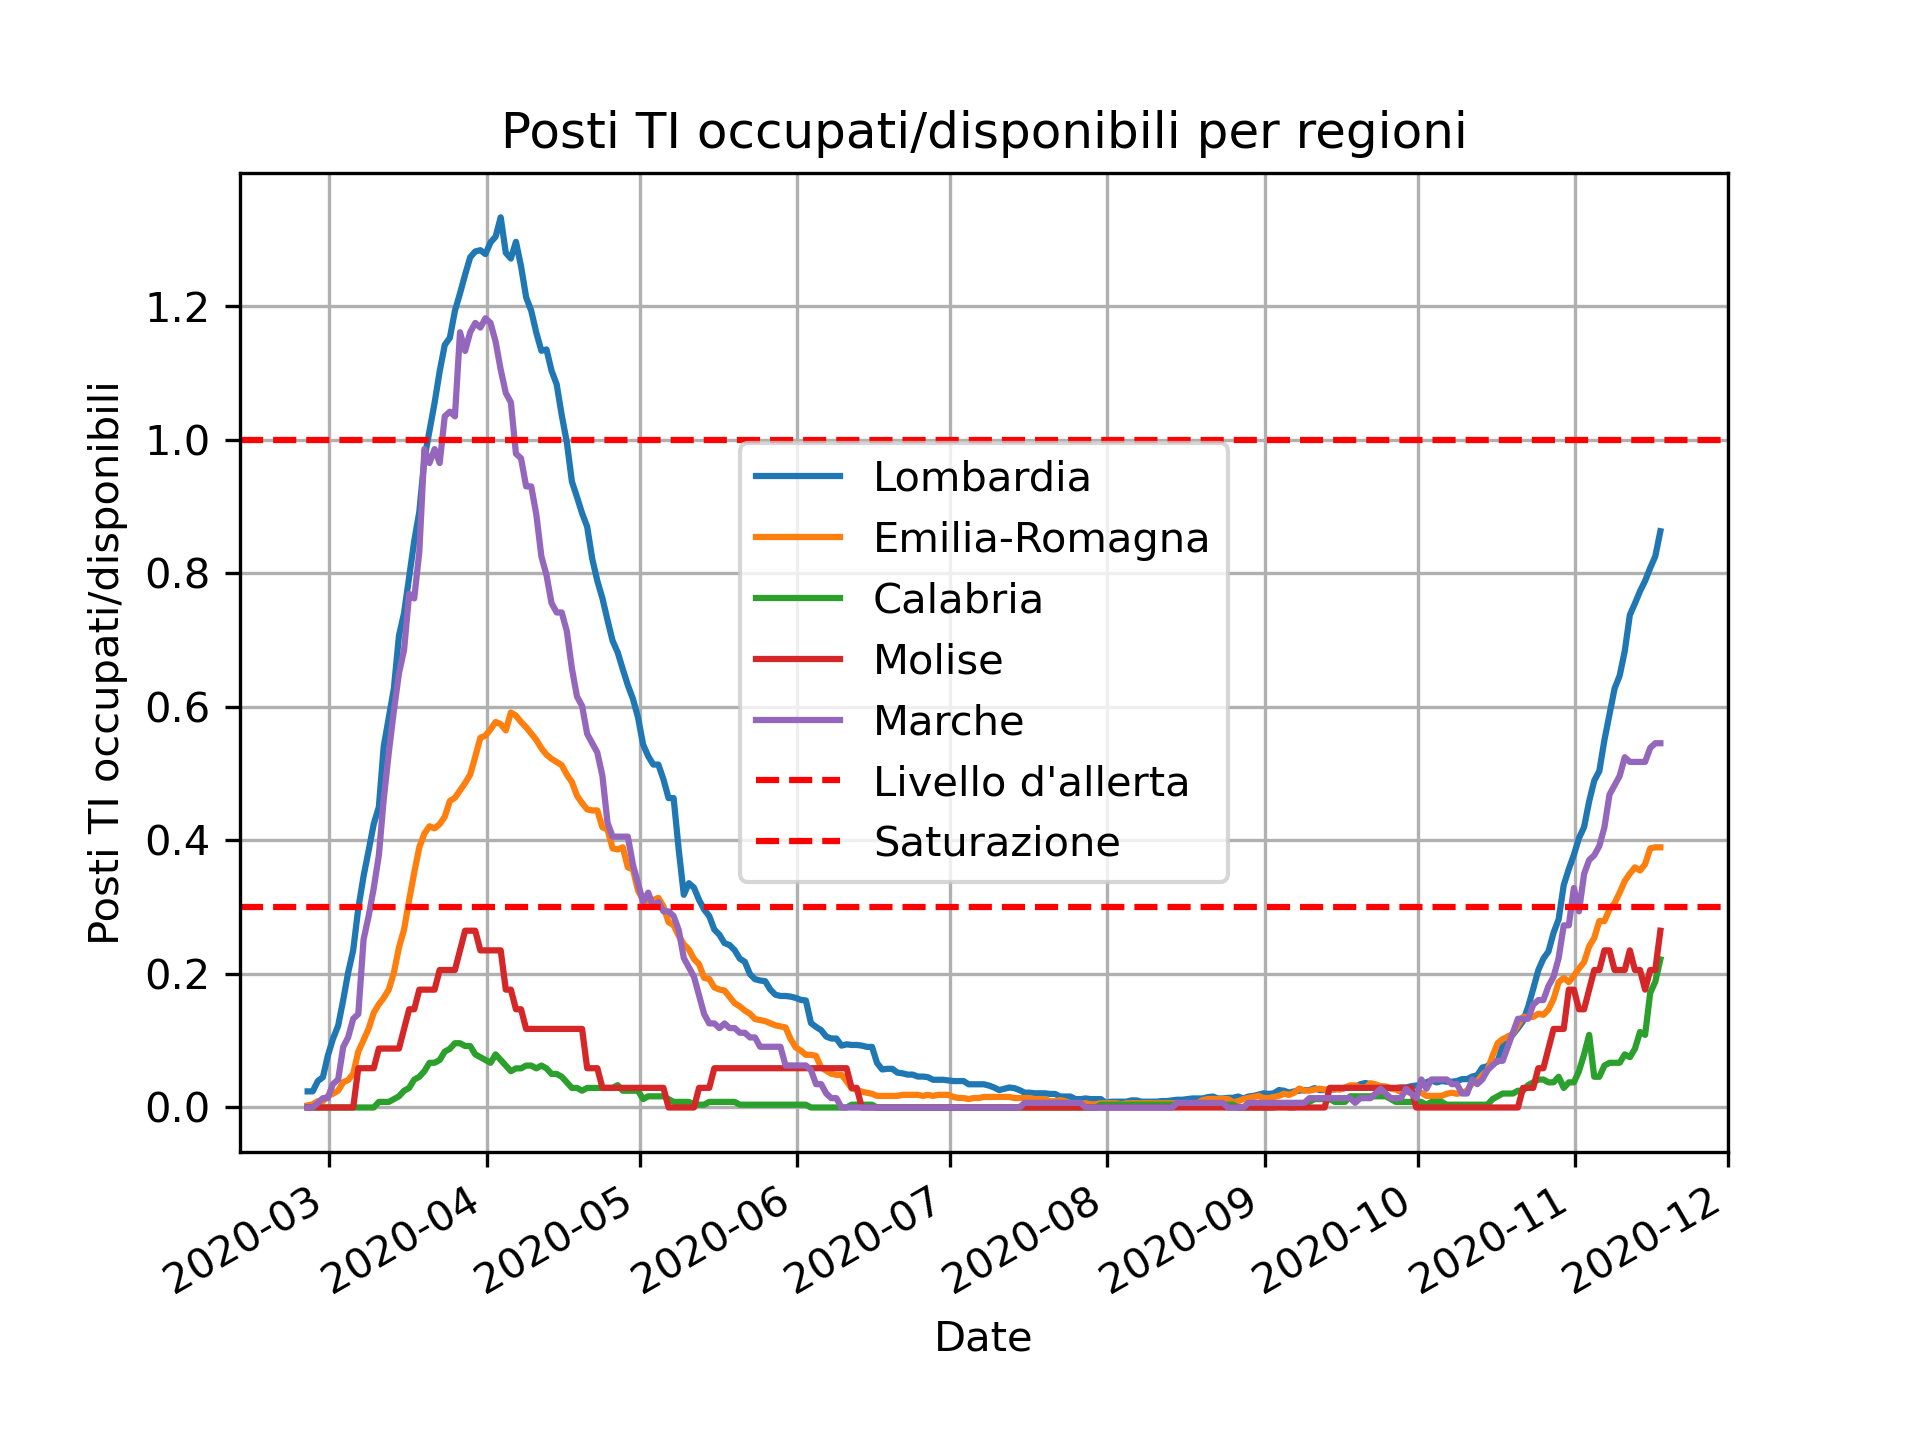
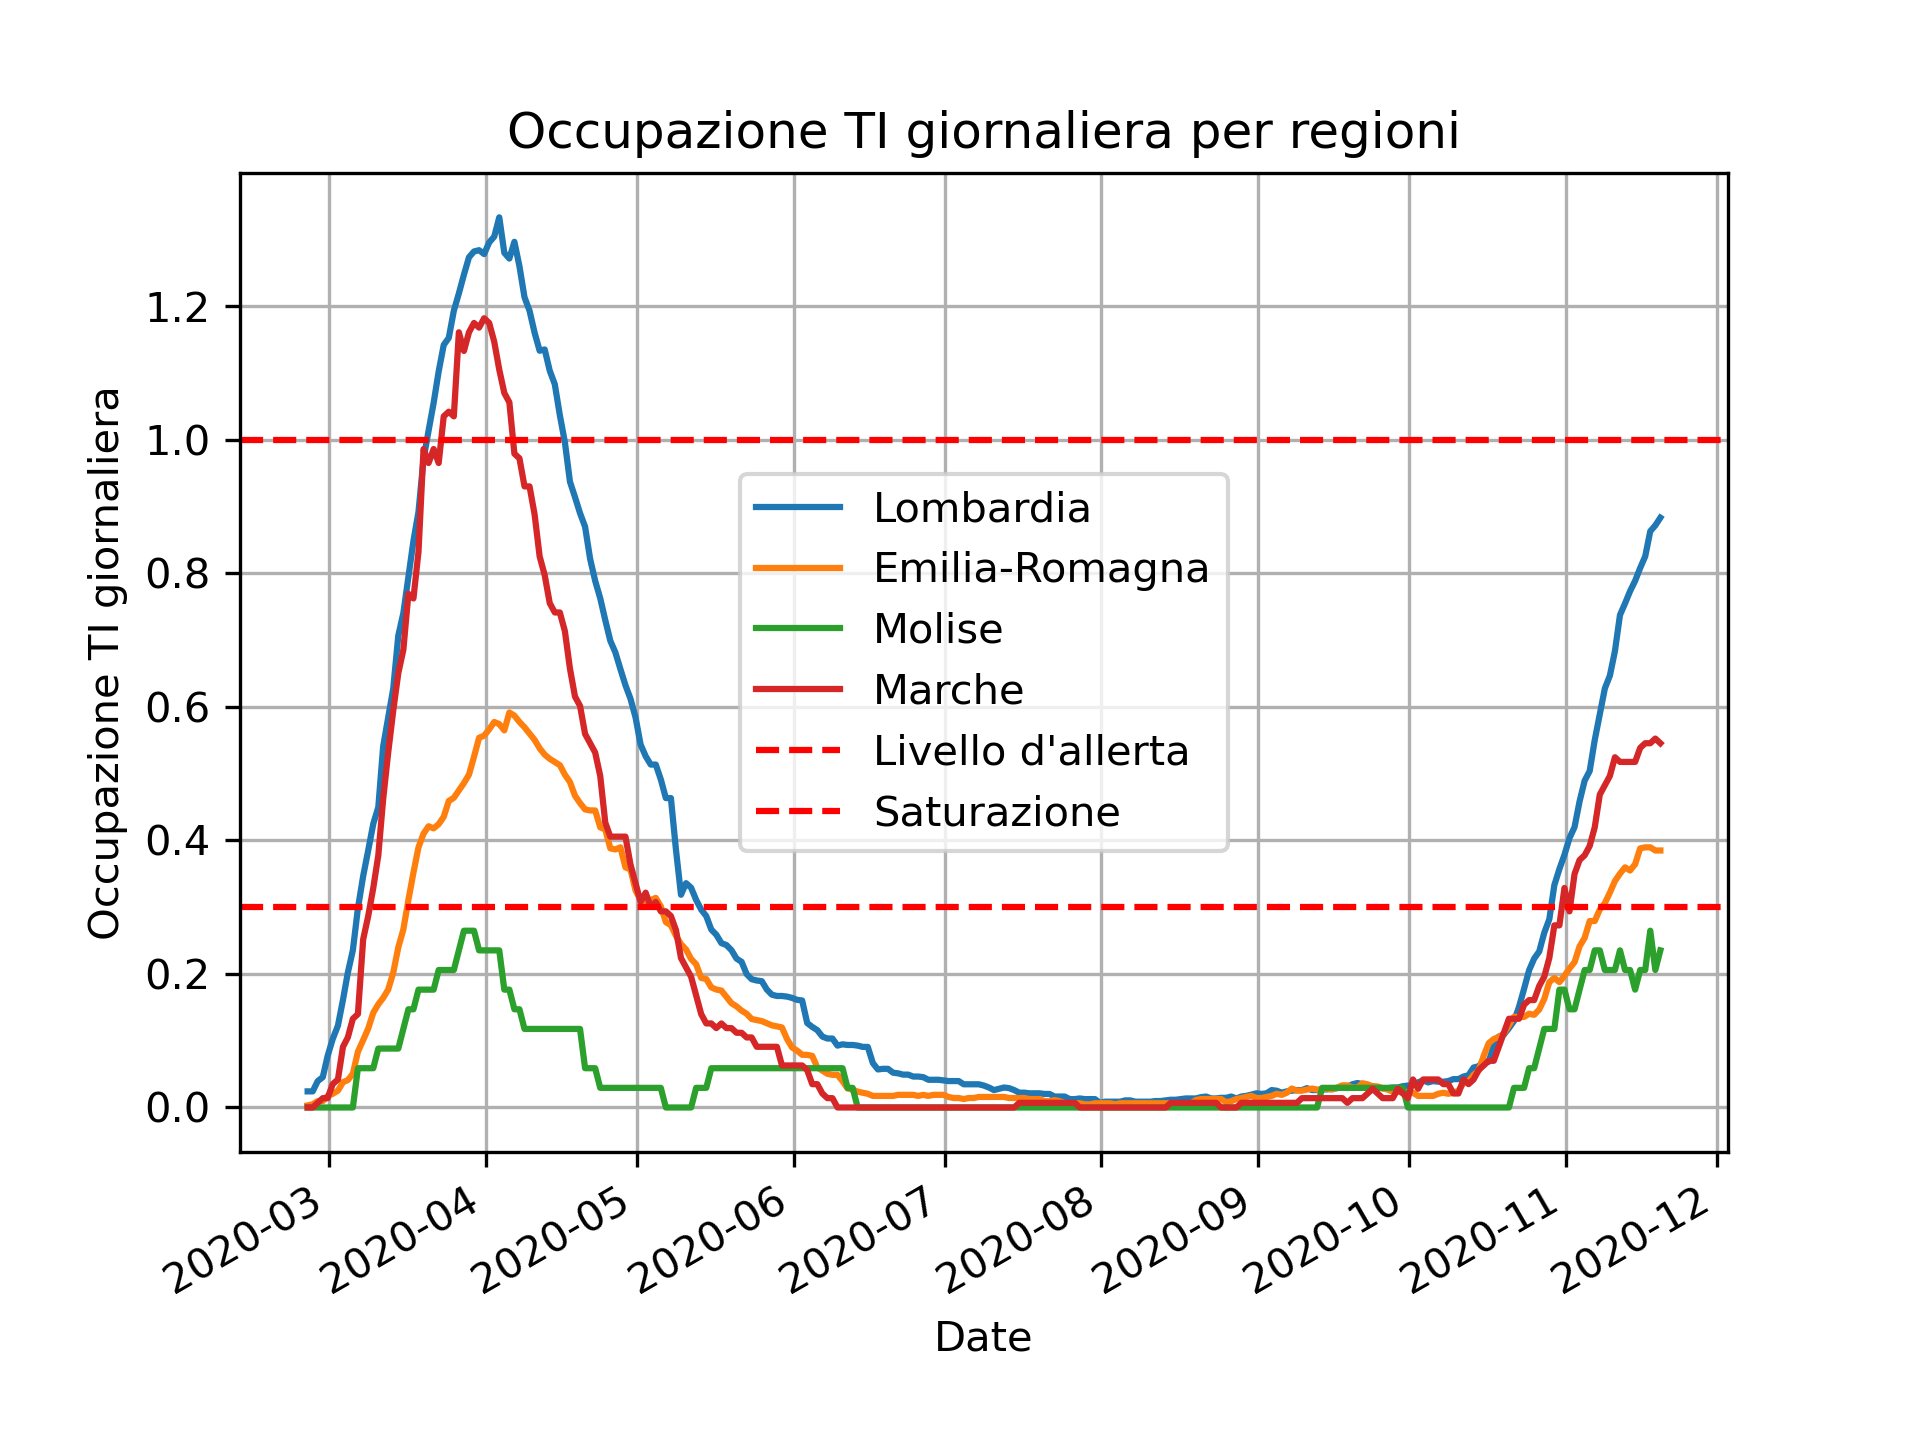
Update 19-11-20

diff --git a/covid_analysis.py b/covid_analysis.py
@@ -27,7 +27,12 @@ def extract_regions_data(path = './GvtOpenData/dati-regioni'):
     return pd.concat((pd.read_csv(file) for file in all_files))
 
 
-def extract_single_region_data(df, region):
+# Create dataframe, extract some region data, plot all available 
+# info into files inside docs directory
+df = extract_regions_data()
+
+
+def extract_single_region_data(region):
     """ 
     Extracts all data about a single region, it sort them, and adds.
     additional data about TI occupation, if available. Also, converts dates 
@@ -47,26 +52,25 @@ def extract_single_region_data(df, region):
     return region_df
 
 
-def extract_regions_of_interest(df):
+def extract_regions_of_interest():
     """
     Extract some regions defined as of interest in the analysis, as a dictionary.
     """
     return {
-        reg.lombardia: extract_single_region_data(df, reg.lombardia),
-        reg.emilia_romagna: extract_single_region_data(df, reg.emilia_romagna),
-        reg.calabria: extract_single_region_data(df, reg.calabria),
-        reg.molise: extract_single_region_data(df, reg.molise),
-        reg.marche: extract_single_region_data(df, reg.marche)
+        reg.lombardia: extract_single_region_data(reg.lombardia),
+        reg.emilia_romagna: extract_single_region_data(reg.emilia_romagna),
+        reg.molise: extract_single_region_data(reg.molise),
+        reg.marche: extract_single_region_data(reg.marche)
     }
 
 
-def compute_ti_occupation_per_regions(df, save_image=False, show=False):
+def compute_ti_occupation_per_regions(save_image=False, show=False):
     """
     Computes and plots relations between occupied TI places and available ones,
     for some regions of interest. 
     """
 
-    regions = extract_regions_of_interest(df)
+    regions = extract_regions_of_interest()
     
     for region_name, region in regions.items():
         plt.plot(region['data'], region['occupazione_ti'], label=region_name)
@@ -76,9 +80,9 @@ def compute_ti_occupation_per_regions(df, save_image=False, show=False):
     
     plt.gcf().autofmt_xdate()
     plt.grid(True)
-    plt.title('Posti TI occupati/disponibili per regioni')
+    plt.title('Occupazione TI giornaliera per regioni')
     plt.xlabel('Date')
-    plt.ylabel('Posti TI occupati/disponibili')
+    plt.ylabel('Occupazione TI giornaliera')
     plt.legend()
     
     if save_image:
@@ -90,25 +94,25 @@ def compute_ti_occupation_per_regions(df, save_image=False, show=False):
     plt.close()
     
 
-def compute_rec_with_symptoms(df, save_image=False, show=False):
+def compute_rec_with_symptoms(save_image=False, show=False):
     """
     Computes and plots recovered with symptoms. 
     """
 
-    regions = extract_regions_of_interest(df)
+    regions = extract_regions_of_interest()
     
     for region_name, region in regions.items():
         plt.plot(region['data'], region['ricoverati_con_sintomi'], label=region_name)
     
     plt.gcf().autofmt_xdate()
     plt.grid(True)
-    plt.title('Ricoverati con sintomi')
+    plt.title('Ricoverati con sintomi giornalieri per regioni')
     plt.xlabel('Date')
     plt.ylabel('Ricoverati con sintomi')
     plt.legend()
     
     if save_image:
-        plt.savefig('./docs/ricoverati_con_sintomi.png', dpi=300)
+        plt.savefig('./docs/ricoverati_con_sintomi_per_regioni.png', dpi=300)
     
     if show:
         plt.show()
@@ -116,14 +120,13 @@ def compute_rec_with_symptoms(df, save_image=False, show=False):
     plt.close()
     
     
-    
-def compute_daily_cases(df, save_image=False, show=False):
+def compute_daily_cases(save_image=False, show=False):
     """
     Computes and plots relations between occupied TI places and available ones,
     for some regions of interest. 
     """
     
-    regions = extract_regions_of_interest(df)
+    regions = extract_regions_of_interest()
     
     for region_name, region in regions.items():
         plt.plot(region['data'], region['nuovi_positivi'], label=region_name)
@@ -143,3 +146,28 @@ def compute_daily_cases(df, save_image=False, show=False):
 
     plt.close()
   
+
+def compute_death(save_image=False, show=False):
+    """
+    Computes and plots daily deaths. 
+    """
+
+    regions = extract_regions_of_interest()
+    
+    for region_name, region in regions.items():
+        plt.plot(region['data'], region['deceduti'], label=region_name)
+    
+    plt.gcf().autofmt_xdate()
+    plt.grid(True)
+    plt.title('Deceduti giornalieri per regioni')
+    plt.xlabel('Date')
+    plt.ylabel('Deceduti')
+    plt.legend()
+    
+    if save_image:
+        plt.savefig('./docs/deceduti_per_regioni.png', dpi=300)
+    
+    if show:
+        plt.show()
+
+    plt.close()

diff --git a/generate_charts.py b/generate_charts.py
@@ -6,9 +6,7 @@ Example execution of the scripts.
 """
 import covid_analysis as covid
   
-# Create dataframe, extract some region data, plot all available 
-# info into files inside docs directory
-df = covid.extract_regions_data()
-covid.compute_ti_occupation_per_regions(df, save_image=True, show=False)
-covid.compute_daily_cases(df, save_image=True, show=False)
-covid.compute_rec_with_symptoms(df, save_image=True, show=False)
+covid.compute_ti_occupation_per_regions(save_image=True, show=False)
+covid.compute_daily_cases(save_image=True, show=False)
+covid.compute_rec_with_symptoms(save_image=True, show=False)
+covid.compute_death(save_image=True, show=False)

diff --git a/README.md b/README.md
@@ -13,9 +13,9 @@ git submodule update --remote --recursive
 ```
 
 ## Charts
-Charts are automatically updated each day. [Here](https://github.com/maldins46/CovidAnalysis/releases/latest) are the latest version.
+Charts are automatically updated each day. [Here](https://github.com/maldins46/CovidAnalysis/releases/latest) are the latest version. These are examples of available charts (shown images are not live):
 
-These are examples of available charts (shown images are not live):
 ![Occupazione TI per regioni](./docs/ti_per_regioni.png)
 ![Positivi per regioni](./docs/positivi_per_regioni.png)
-![Ricoverati con sintomi](./docs/ricoverati_con_sintomi.png)
+![Deceduti per regioni](./docs/deceduti_per_regioni.png)
+![Ricoverati con sintomi per regioni](./docs/ricoverati_con_sintomi_per_regioni.png)
